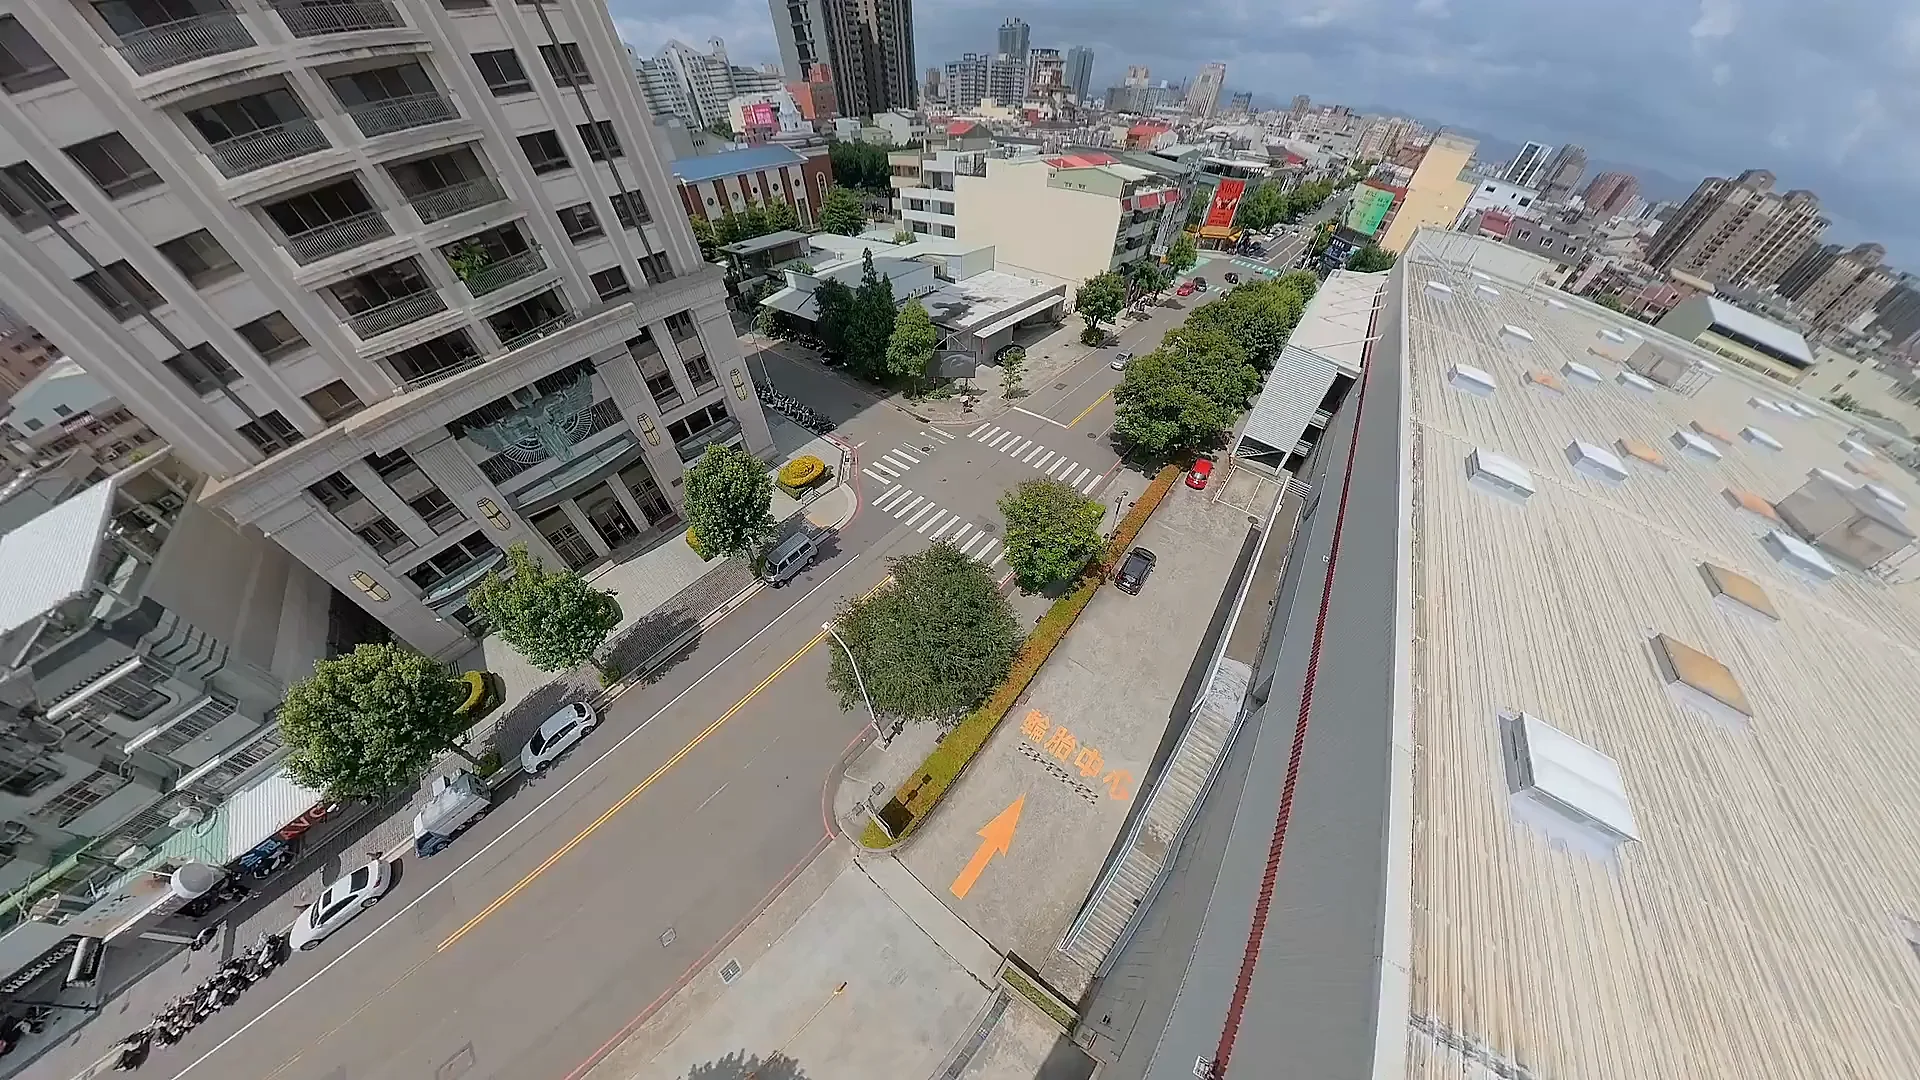
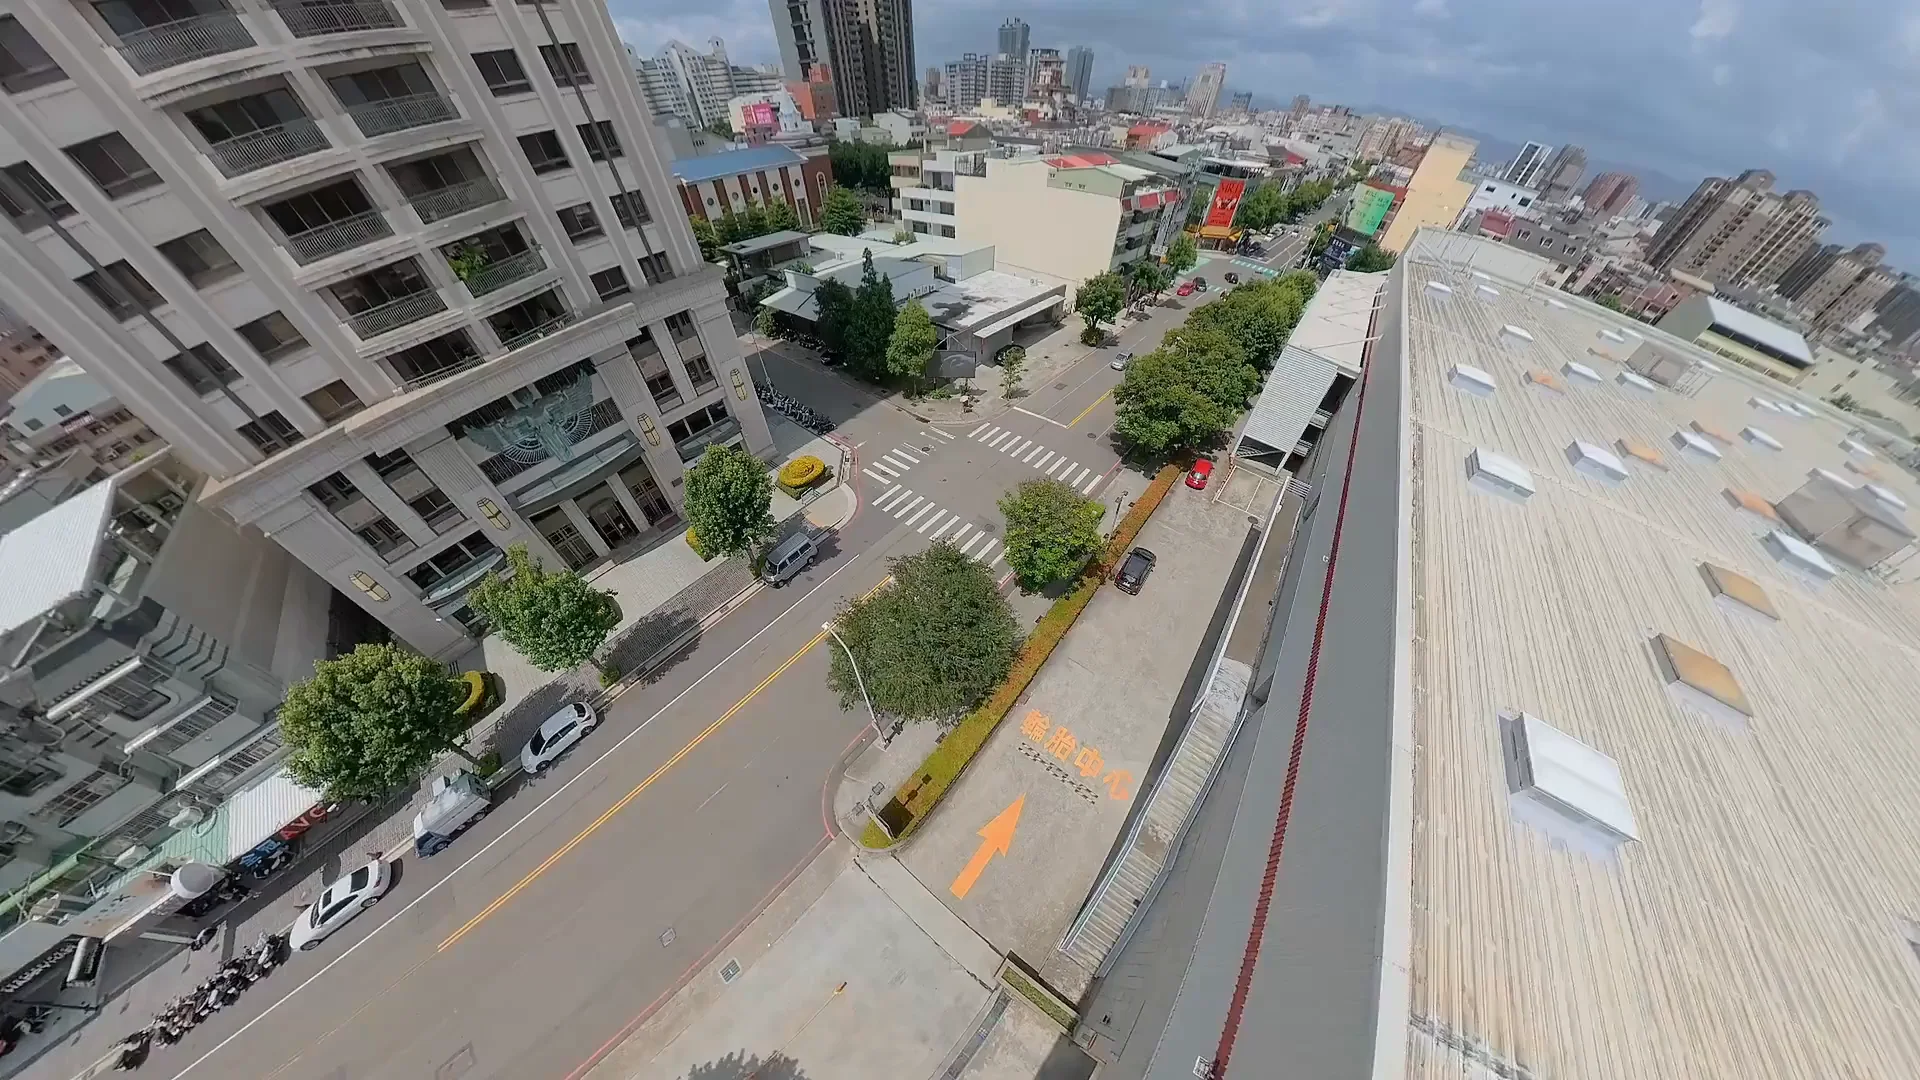
Fix scroll video startup

diff --git a/scrub-engine.js b/scrub-engine.js
@@ -78,7 +78,7 @@
      crawlers, link previews, and no-JS visitors (see index-template.html).
 
    REQUIREMENTS ON YOUR ASSETS
-     - clips encoded native-res, crf~20, -g 8, +faststart, no audio (see pipeline.md)
+     - clips encoded native-res, web-tuned CRF, dense GOP, +faststart, no audio (see pipeline.md)
      - connectors' endpoints are the neighbouring dives' ACTUAL frames (Architecture B protocol)
      - posters extracted from the ENCODED clips' first frames (pipeline.md §5b)
      - (optional) mobile variants at ~720p, -g 4 for smoother phone scrubbing
@@ -257,7 +257,9 @@ function mountScrollWorld(container, config) {
     SEGMENTS.forEach(s => {
       if (s.video) {
         try { s.video.pause(); } catch (e) {}
-        try { URL.revokeObjectURL(s.video.src); } catch (e) {}
+        if (s.video.dataset.blobUrl === '1') {
+          try { URL.revokeObjectURL(s.video.src); } catch (e) {}
+        }
         s.video.remove();
       }
       s.el.classList.remove('has-clip');
@@ -273,21 +275,44 @@ function mountScrollWorld(container, config) {
     // Serve the lighter mobile encode on phone-class devices when one was provided
     // (tablets and desktops get the full master — see phoneClass above).
     const url = (isPhone() && s.clipM) ? s.clipM : s.clip;
+
+    function attachVideo(src, blobUrl) {
+      const v = document.createElement('video');
+      v.className = 'sw-scene__video';
+      v.muted = true; v.playsInline = true; v.preload = 'auto';
+      v.setAttribute('muted', ''); v.setAttribute('playsinline', '');
+      v.dataset.blobUrl = blobUrl ? '1' : '0';
+      v.addEventListener('loadedmetadata', () => {
+        // If the user scrolled while the media was loading, start at the newest
+        // target immediately instead of easing forward from frame zero.
+        s.cur = s.target;
+        const t = clamp(s.cur, 0, 0.999) * (v.duration || 1);
+        if (Math.abs(v.currentTime - t) > 0.001) {
+          try { v.currentTime = t; } catch (e) {}
+        }
+        s.ready = true;
+        read();
+      });
+      // Reveal the video (hide the still poster) only once a real frame has
+      // painted — on iOS a seeked-but-never-played muted video stays blank, so
+      // hiding the still on metadata alone would flash an empty scene.
+      v.addEventListener('seeked', () => { s.el.classList.add('has-clip'); }, { once: true });
+      v.addEventListener('loadeddata', () => { try { v.pause(); } catch (e) {} if (userReady) primeVideo(v); });
+      v.addEventListener('error', () => { s.loading = false; }, { once: true });
+      v.src = src;
+      s.el.appendChild(v); s.video = v; s.hasClip = true;
+    }
+
+    // Known range-capable hosts can stream directly and seek before the full file
+    // downloads. Blob mode remains the portable fallback for hosts without ranges.
+    if (config.streamVideo === true) {
+      attachVideo(url, false);
+      return;
+    }
+
     fetch(url).then(r => r.ok ? r.blob() : Promise.reject(new Error('404')))
-      .then(blob => {
-        const v = document.createElement('video');
-        v.className = 'sw-scene__video';
-        v.muted = true; v.playsInline = true; v.preload = 'auto';
-        v.setAttribute('muted', ''); v.setAttribute('playsinline', '');
-        v.src = URL.createObjectURL(blob);
-        v.addEventListener('loadedmetadata', () => { s.ready = true; read(); });
-        // Reveal the video (hide the still poster) only once a real frame has
-        // painted — on iOS a seeked-but-never-played muted video stays blank, so
-        // hiding the still on metadata alone would flash an empty scene.
-        v.addEventListener('seeked', () => { s.el.classList.add('has-clip'); }, { once: true });
-        v.addEventListener('loadeddata', () => { try { v.pause(); } catch (e) {} if (userReady) primeVideo(v); });
-        s.el.appendChild(v); s.video = v; s.hasClip = true;
-      }).catch(() => { s.loading = false; });
+      .then(blob => { attachVideo(URL.createObjectURL(blob), true); })
+      .catch(() => { s.loading = false; });
   }
 
   function read() {
@@ -309,9 +334,12 @@ function mountScrollWorld(container, config) {
       const op = smooth(1 - outside / fade);
       s.el.style.opacity = op; s.visible = op > 0.001;
       s.el.style.zIndex = (i === ci) ? '120' : String(100 + Math.round(op * 10));
-      if (!s.hasClip || !s.ready) {
-        const sc = reduce ? 1 : 1.03 + local * 0.14;
-        s.img.style.transform = `translateX(${stageX - 2}vw) scale(${sc.toFixed(3)})`;
+      if (!s.hasClip || !s.ready || !s.el.classList.contains('has-clip')) {
+        // A loading poster is a stationary placeholder, never fake camera motion.
+        // Keep the scrub cursor aligned so the first decoded frame opens at the
+        // current scroll position instead of catching up from zero.
+        s.cur = s.target;
+        s.img.style.transform = 'none';
       }
     }
 

diff --git a/index.html b/index.html
@@ -23,6 +23,7 @@
 
     .sw-root .sw-copylayer {
       --copy-gradient-opacity: 1;
+      --copy-accent-opacity: 1;
     }
 
     .sw-root .sw-copylayer::before {
@@ -43,9 +44,13 @@
       right: clamp(42px, 6vw, 82px);
       left: auto;
       padding-right: clamp(18px, 2vw, 28px);
-      border-right: 4px solid #ff2b2b;
+      border-right: 4px solid rgb(255 43 43 / var(--copy-accent-opacity));
       text-align: right;
       opacity: 1 !important;
+    }
+
+    .sw-root .sw-route {
+      display: none;
     }
 
     .sw-root .sw-copy > * {
@@ -116,11 +121,11 @@
 
     @media (max-width: 600px) and (orientation: portrait) {
       .sw-root .sw-scene__still {
-        object-position: 50% 50%;
+        object-position: 45.5% 50%;
       }
 
       .sw-root .sw-scene__video {
-        left: 50%;
+        left: 61.5%;
         right: auto;
         width: auto;
         max-width: none;
@@ -169,13 +174,14 @@
       hint: '向下捲動進入現場',
       nav: false,
       atmosphere: false,
+      streamVideo: true,
       diveScroll: 2.2,
       scrollMobileFactor: 1.25,
       crossfade: 0.08,
       sections: [
         {
           id: 'city-flight',
-          label: '大型戶外電視',
+          label: '',
           still: 'assets/city-flight-still.webp',
           poster: 'assets/city-flight-poster.webp',
           clip: 'assets/vid/city-flight.mp4',
@@ -227,10 +233,12 @@
         const eased = local * local * (3 - 2 * local);
         const copyLayer = document.querySelector('.sw-copylayer');
         if (copyLayer) {
+          const opacity = (1 - eased).toFixed(3);
           copyLayer.style.setProperty(
             '--copy-gradient-opacity',
-            (1 - eased).toFixed(3)
+            opacity
           );
+          copyLayer.style.setProperty('--copy-accent-opacity', opacity);
         }
       }
 

diff --git a/QA.md b/QA.md
@@ -4,12 +4,17 @@
 - 手機直式視窗：`390×844`，通過
 - 桌面影片：`1920×1080`、`30 fps CFR`、H.264、無音訊
 - 手機影片：`1280×720`、`30 fps CFR`、H.264、無音訊
+- 桌面影片容量：`18,259,058 bytes`（約 `17.4 MiB`），原網站版約 `30.9 MB`
+- 手機影片容量：`7,181,975 bytes`（約 `6.8 MiB`），原網站版約 `13.8 MB`
+- 桌面／手機編碼 SSIM：`0.983181` / `0.956811`
 - 影片時長：`7.933333 秒`
 - 桌面影片載入：通過，瀏覽器 `readyState=4`
 - 手機影片載入：通過，使用 `assets/vid/city-flight-m.mp4`
 - 手機播放方式：與電腦版相同，影片 `currentTime` 跟隨捲動
-- 手機水平取景：全程固定中央 `50%`，無左右位移
-- `390×844` 起點／中段／結尾：影片中心 `195 px` = 視窗中心 `195 px`
+- 影片載入方式：使用 HTTP Range 直接串流，不等待完整 Blob 下載
+- 載入海報：固定不位移、不縮放；影片可用後直接對齊當下捲動時間
+- 手機水平取景：固定向右補償 `11.5vw`，讓電視視覺中心對齊畫面中心
+- 手機水平位置：起點／中段／結尾皆使用同一固定補償，無動態左右追蹤
 - `390×844` 起點／中段／結尾：影片顯示寬度恒定 `1500.44 px`
 - 手機紅色電話按鈕與捲動提示：使用獨立安全間距，避免垂直重疊
 - `390×844` 電話按鈕／提示間距：約 `54 px`，`overlaps=false`
@@ -17,12 +22,14 @@
 - 手機文案層級間距：統一為 `20 px`
 - 手機與電腦版文案退場順序：編號／眉題 → 主標題 → 說明 → 服務標籤 → 紅色電話按鈕
 - 手機與電腦版背景漸層：捲動進度 `16%` 開始淡出，`58%` 完全退場
+- 手機與電腦版右側紅色邊線：與漸層同步淡出，`58%` 完全消失
+- 場景導覽紅點與「大型戶外電視」標籤：手機與電腦版均移除
 - 漸層實測：電腦版 `40% = 0.395`、`60% = 0`；手機版 `40% = 0.391`、`60% = 0`
 - 電腦版捲動進度 `23%`：主標題 `0.257`、說明 `0.894`、標籤與電話 `1`
 - 電腦版捲動進度 `40%`：說明 `0`、標籤 `0.092`、電話 `0.741`
 - 手機影片尺寸：固定填滿視窗，捲動時不放大、不縮小
 - 最後畫面：大型戶外電視置中，主要看板面積保留
-- 最後畫面水平焦點：維持中央 `50%`
+- 最後畫面水平位置：維持固定右移補償
 - 最後畫面文案：透明度 `0`，不覆蓋看板
 - 文案位置：桌面右側
 - 電話連結：`tel:[phone redacted]`
@@ -34,4 +41,4 @@
 
 ## 已知限制 （Known Limitation）
 
-- 來源為 `16:9`，直式手機無法在填滿畫面的同時保留完整橫向影像；目前固定中央裁切，不再追蹤偏移。
+- 來源為 `16:9`，直式手機無法在填滿畫面的同時保留完整橫向影像；目前使用固定右移補償進行裁切，捲動過程不再改變位置。

diff --git a/asset-manifest.md b/asset-manifest.md
@@ -11,9 +11,12 @@
 - 正規化檔：`.work/clip-city-flight.mp4`
 - 桌面主檔：`assets/vid/city-flight.mp4`
 - 手機檔：`assets/vid/city-flight-m.mp4`
+- 桌面主檔規格：`CRF 23`、`GOP 8`、約 `17.4 MiB`
+- 手機檔規格：`CRF 26`、`GOP 4`、約 `6.8 MiB`
+- 網頁播放方式：HTTP Range 串流，`streamVideo: true`
 - 桌面海報：`assets/city-flight-poster.webp`
 - 手機海報：`assets/city-flight-poster-m.webp`
 - 靜態 fallback：`assets/city-flight-still.webp`
 - 連接片：無
 - SSIM 接縫檢查：不適用，單一場景沒有相鄰接縫
-- 直式資產：未生成；手機使用 16:9 輕量版，直式視窗全程固定中央 `50%` 裁切，無左右位移或捲動縮放
+- 直式資產：未生成；手機使用 16:9 輕量版，直式視窗使用固定 `+11.5vw` 右移補償對齊電視，無動態左右位移或捲動縮放